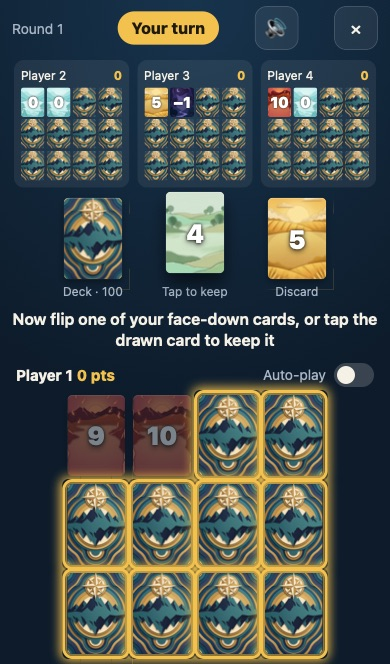
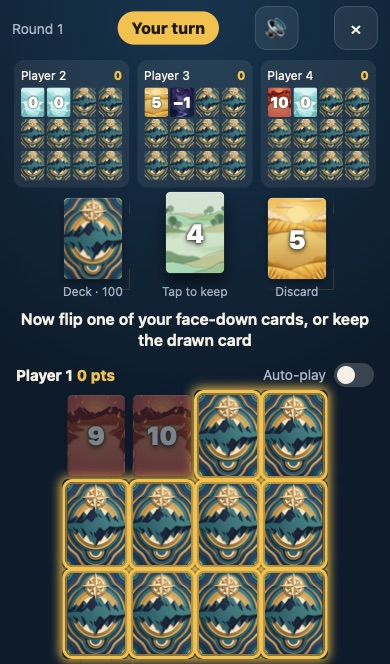
fix(client): shorter discard-mode prompts that fit 2 lines with Linux fonts too; glow under the cards; discard mode checked for 44 px and no scroll (M18 review)

Changed region(s): [[0.0308, 0.4518, 0.9846, 0.5422], [0.5231, 0.6024, 0.8308, 0.994], [0.1846, 0.7229, 0.4923, 0.994]]

diff --git a/src/client/i18n.tsx b/src/client/i18n.tsx
@@ -36,7 +36,7 @@ const en = {
   lastTurn: "Last turn! ",
   waiting: "Waiting for {name}…",
   swapIn: "Tap a card in your grid to swap it in",
-  discardMode: "Now flip one of your face-down cards, or tap the drawn card to keep it",
+  discardMode: "Now flip one of your face-down cards, or keep the drawn card",
   place: "Tap a grid card to swap, or the discard pile to throw it away",
   winsOne: "{names} wins!",
   winsMany: "{names} win!",
@@ -145,7 +145,7 @@ const es: Record<Key, string> = {
   lastTurn: "¡Último turno! ",
   waiting: "Esperando a {name}…",
   swapIn: "Toca una carta de tu cuadrícula para cambiarla",
-  discardMode: "Ahora voltea una de tus cartas boca abajo, o toca la robada para quedártela",
+  discardMode: "Ahora voltea una de tus cartas boca abajo, o quédate con la robada",
   place: "Toca una carta para cambiarla, o el descarte para tirar la robada",
   winsOne: "¡Gana {names}!",
   winsMany: "¡Ganan {names}!",
@@ -253,8 +253,7 @@ const pt: Record<Key, string> = {
   lastTurn: "Última jogada! ",
   waiting: "Esperando {name}…",
   swapIn: "Toque em uma carta da sua grade para trocar",
-  discardMode:
-    "Agora vire uma das suas cartas viradas para baixo, ou toque na comprada para mantê-la",
+  discardMode: "Agora vire uma das suas cartas viradas para baixo, ou fique com a comprada",
   place: "Toque em uma carta para trocar, ou no descarte para jogar a comprada fora",
   winsOne: "{names} venceu!",
   winsMany: "{names} venceram!",

diff --git a/e2e/table.spec.ts b/e2e/table.spec.ts
@@ -158,6 +158,7 @@ test.describe("M18: discard mode shows where to tap", () => {
       await page.getByTestId("discard").click();
       await expect(page.getByTestId("drawn")).toHaveJSProperty("tagName", "BUTTON"); // tap to keep
       expect((await top("deck")) - (await top("drawn"))).toBeCloseTo(6, 0);
+      await expectMobileFriendly(page);
       const marks = await page.evaluate(() => {
         const grid = '[data-testid="my-grid"]';
         const hl = [...document.querySelectorAll(".hl")];

diff --git a/src/client/styles.css b/src/client/styles.css
@@ -821,6 +821,9 @@ dialog.zoom::backdrop {
   border-radius: inherit;
   box-shadow: 0 0 12px 2px var(--accent);
   pointer-events: none;
+  /* Under every card (the grid's perspective makes it the stacking context), so neighbouring
+     glows never paint over a card. */
+  z-index: -1;
   animation: pulse 1.2s ease-in-out infinite;
 }
 

diff --git a/CHANGELOG.md b/CHANGELOG.md
@@ -9,7 +9,7 @@ Every merge to `main` deploys to https://skyjo-online.jcarl-30.workers.dev. When
 ### Fixed
 
 - After you throw away a card you drew, it's now clear which card to tap. Your face-down cards get a glowing gold outline, and your face-up cards fade back. Before, the only gold outline was on the discard pile, and tapping it only took you back. With reduced motion on, the outline holds still.
-- The prompt says what to do: "Now flip one of your face-down cards, or tap the drawn card to keep it" (in Spanish, "Ahora voltea una de tus cartas boca abajo…"; in Portuguese, "Agora vire uma das suas cartas viradas para baixo…"). It fits in two lines on small phones.
+- The prompt says what to do: "Now flip one of your face-down cards, or keep the drawn card" (in Spanish, "Ahora voltea una de tus cartas boca abajo…"; in Portuguese, "Agora vire uma das suas cartas viradas para baixo…"). It fits in two lines on small phones.
 
 ### Changed
 
